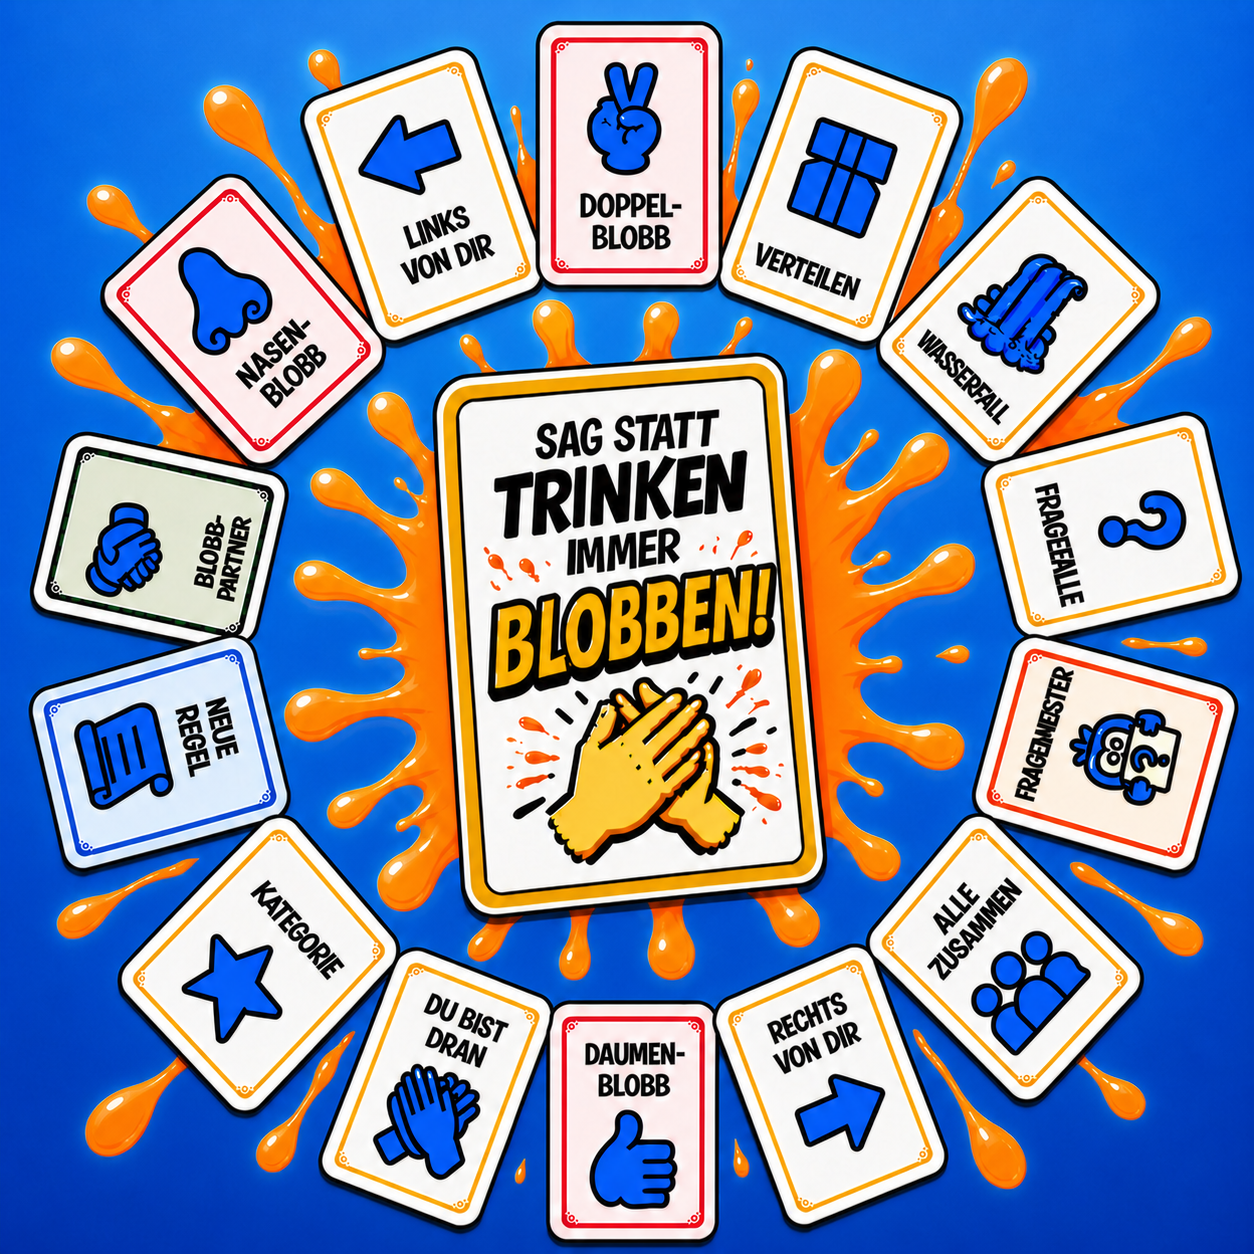
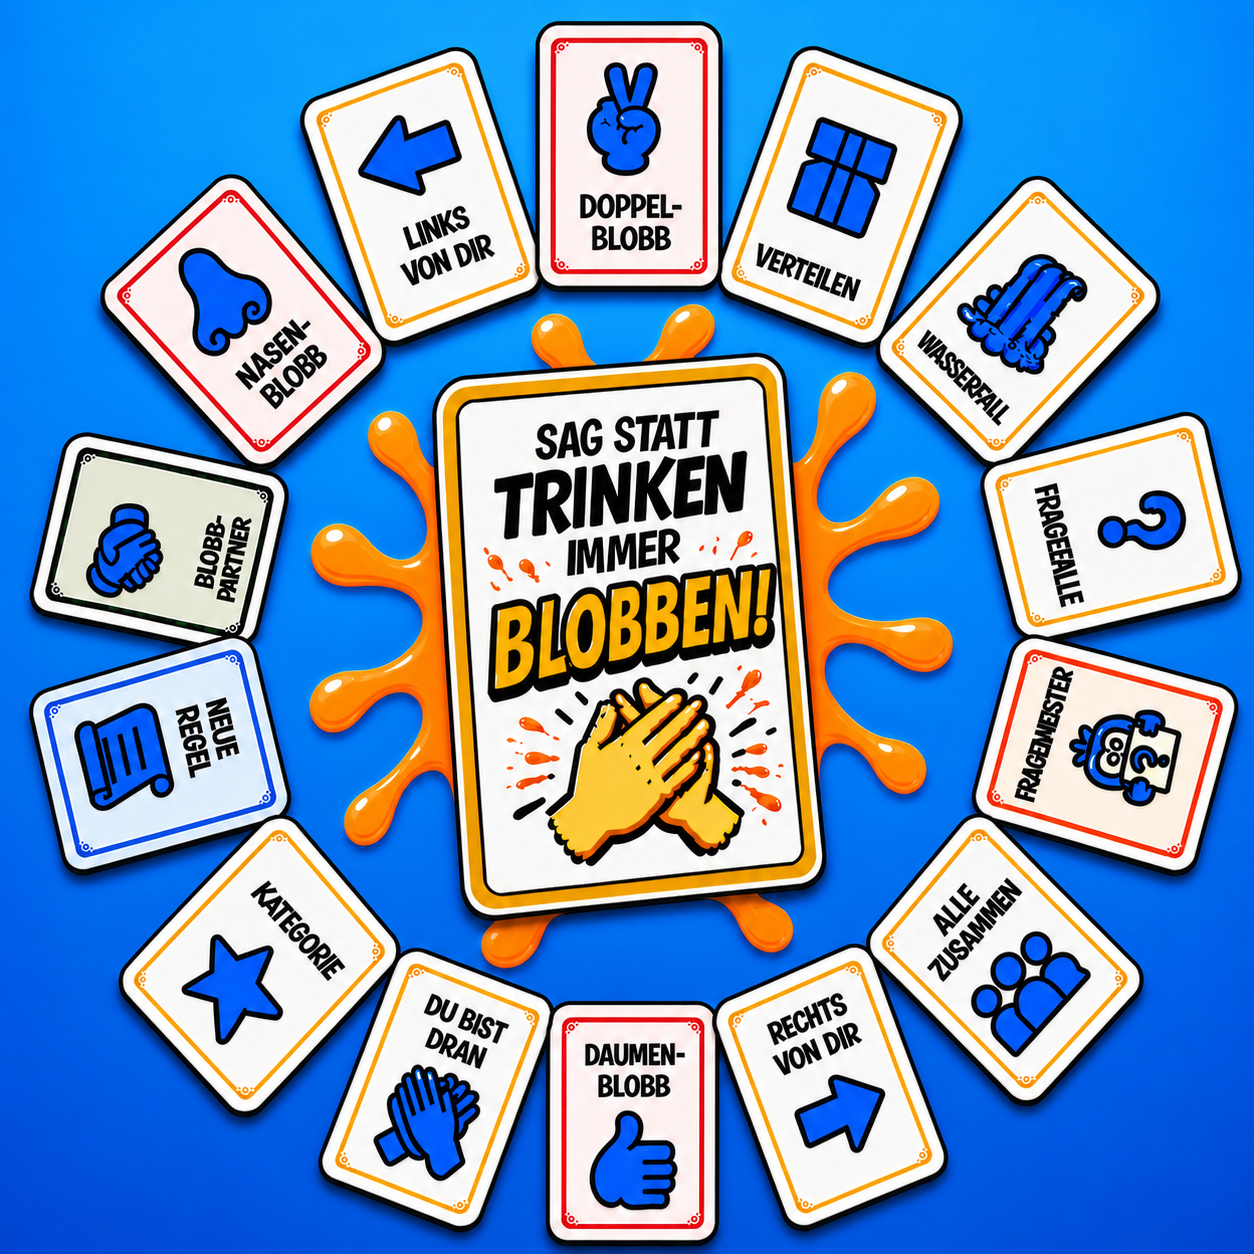
Unify game artwork and water frames

diff --git a/src/style.css b/src/style.css
@@ -278,10 +278,10 @@ body {
 .klatschen-home-button {
   background: linear-gradient(
     180deg,
-    #29b9ee 0%,
-    #108edb 28%,
-    #086fc8 62%,
-    #06489f 100%
+    #12a9ec 0%,
+    #0b8bda 34%,
+    #0870c9 68%,
+    #0648a2 100%
   );
 }
 